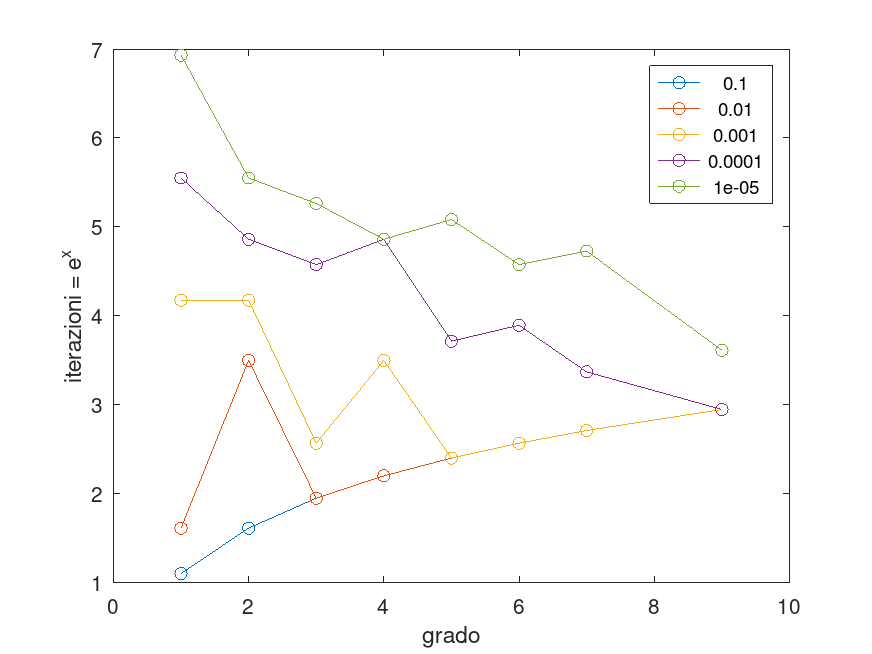
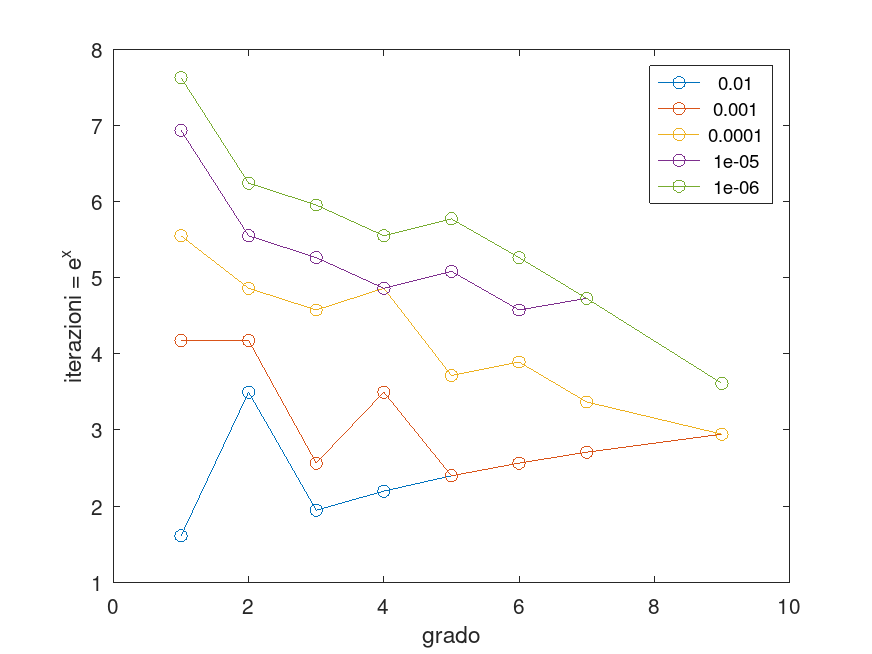
Fix error of 10^{-x} rappresentation
* Fix comment in es14
* Fix figure, code and LaTeX of es27

diff --git a/capitolo5/es27.tex b/capitolo5/es27.tex
@@ -18,14 +18,14 @@ logaritmo naturale di numero di valutazioni funzionali.
         \hline
         n & $10^{-2}$ & $10^{-3}$ & $10^{-4}$ & $10^{-5}$ & $10^{-6}$ \\
         \hline
-        1 & 3         & 5         & 65        & 257       & 1025      \\
-        2 & 5         & 33        & 65        & 129       & 257       \\
-        3 & 7         & 7         & 13        & 97        & 193       \\
-        4 & 9         & 9         & 33        & 129       & 129       \\
-        5 & 11        & 11        & 11        & 41        & 161       \\
-        6 & 13        & 13        & 13        & 49        & 97        \\
-        7 & 15        & 15        & 15        & 29        & 113       \\
-        9 & 19        & 19        & 19        & 19        & 37        \\
+        1 & 5         & 65        & 257       & 1025      & 2049      \\
+        2 & 33        & 65        & 129       & 257       & 513       \\
+        3 & 7         & 13        & 97        & 193       & 385       \\
+        4 & 9         & 33        & 129       & 129       & 257       \\
+        5 & 11        & 11        & 41        & 161       & 321       \\
+        6 & 13        & 13        & 49        & 97        & 193       \\
+        7 & 15        & 15        & 29        & 113       & 113       \\
+        9 & 19        & 19        & 19        & 37        & 37        \\
         \hline
     \end{tabular}
     \caption{numero di valutazioni funzionali rispetto a grado e tolleranza}

diff --git a/capitolo3/es14_newton.m b/capitolo3/es14_newton.m
@@ -9,7 +9,7 @@ function [x, nit] = newton(fun, jacobian, x0, tol, maxit)
     %                         @(x) [x(1)-x(2); x(1)+x(2)]
     %         jacobian  - jacobian matrix of the functions in variable 'fun'
     %         x0        - array of initail values
-    %         tol       - tolerance                     (default = 10e-6)
+    %         tol       - tolerance                     (default = 1e-6)
     %         maxit     - maximum number of iterations  (default = 100)
     % Output: x         - solution of non linear system
     %         nit       - number of iterations executed

diff --git a/capitolo5/es27.m b/capitolo5/es27.m
@@ -4,7 +4,7 @@ fx = @(x) sin(1 ./ (0.1 + x));
 a = 0;
 b = 1;
 grades = [1 2 3 4 5 6 7 9];
-tols = [10e-2 10e-3 10e-4 10e-5 10e-6];
+tols = [1e-2 1e-3 1e-4 1e-5 1e-6];
 
 nevals = zeros(length(grades), length(tols));
 
